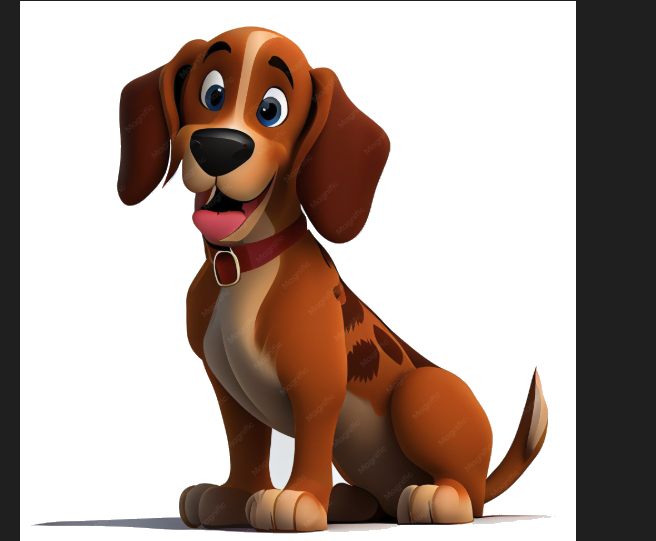
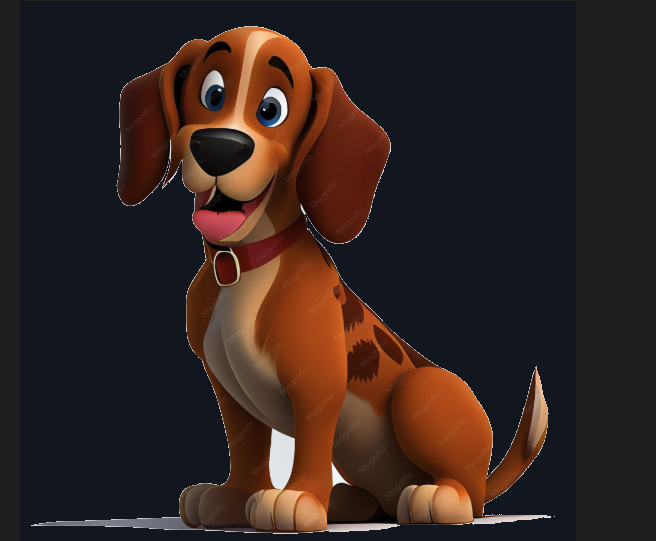
hide TV badge

diff --git a/index.html b/index.html
@@ -22,10 +22,10 @@ select:focus,input:focus{border-color:var(--yellow)}
 #livePrice{font-size:22px;font-weight:700}
 #livePrice{font-size:28px;font-weight:800;letter-spacing:1.5px;text-shadow:0 0 22px rgba(240,185,11,.3)}
 #priceChg{font-size:12px;font-weight:800;letter-spacing:.5px;padding:4px 11px;border-radius:20px;border:1px solid currentColor;background:rgba(255,255,255,.07);background:color-mix(in srgb,currentColor 15%,transparent)}
-@keyframes dog-hop{0%,100%{transform:translateY(0) rotate(-7deg)}50%{transform:translateY(-9px) rotate(7deg)}}
+@keyframes dog-hop{0%,100%{transform:translateY(0) scale(1,1) rotate(-4deg)}30%{transform:translateY(-4px) scale(.95,1.08) rotate(3deg)}55%{transform:translateY(-13px) scale(1,1) rotate(-2deg)}80%{transform:translateY(-2px) scale(1.06,.92) rotate(2deg)}}
 @keyframes dog-sit{0%,100%{transform:translateY(4px) scale(.95)}50%{transform:translateY(6px) scale(.92)}}
 #priceDogImg{display:inline-block;transition:filter .4s,transform .4s}
-#priceDogImg.up{animation:dog-hop .56s ease-in-out infinite}
+#priceDogImg.up{animation:dog-hop .62s cubic-bezier(.36,.07,.19,.97) infinite;filter:drop-shadow(0 7px 6px rgba(0,0,0,.45))}
 #priceDogImg.down{animation:dog-sit 2.4s ease-in-out infinite;filter:grayscale(.65);transform:translateY(3px) scale(.94)}
 .live-dot{width:8px;height:8px;border-radius:50%;background:var(--green);display:inline-block;animation:pulse 1.2s infinite}
 @keyframes pulse{0%,100%{opacity:1}50%{opacity:.3}}
